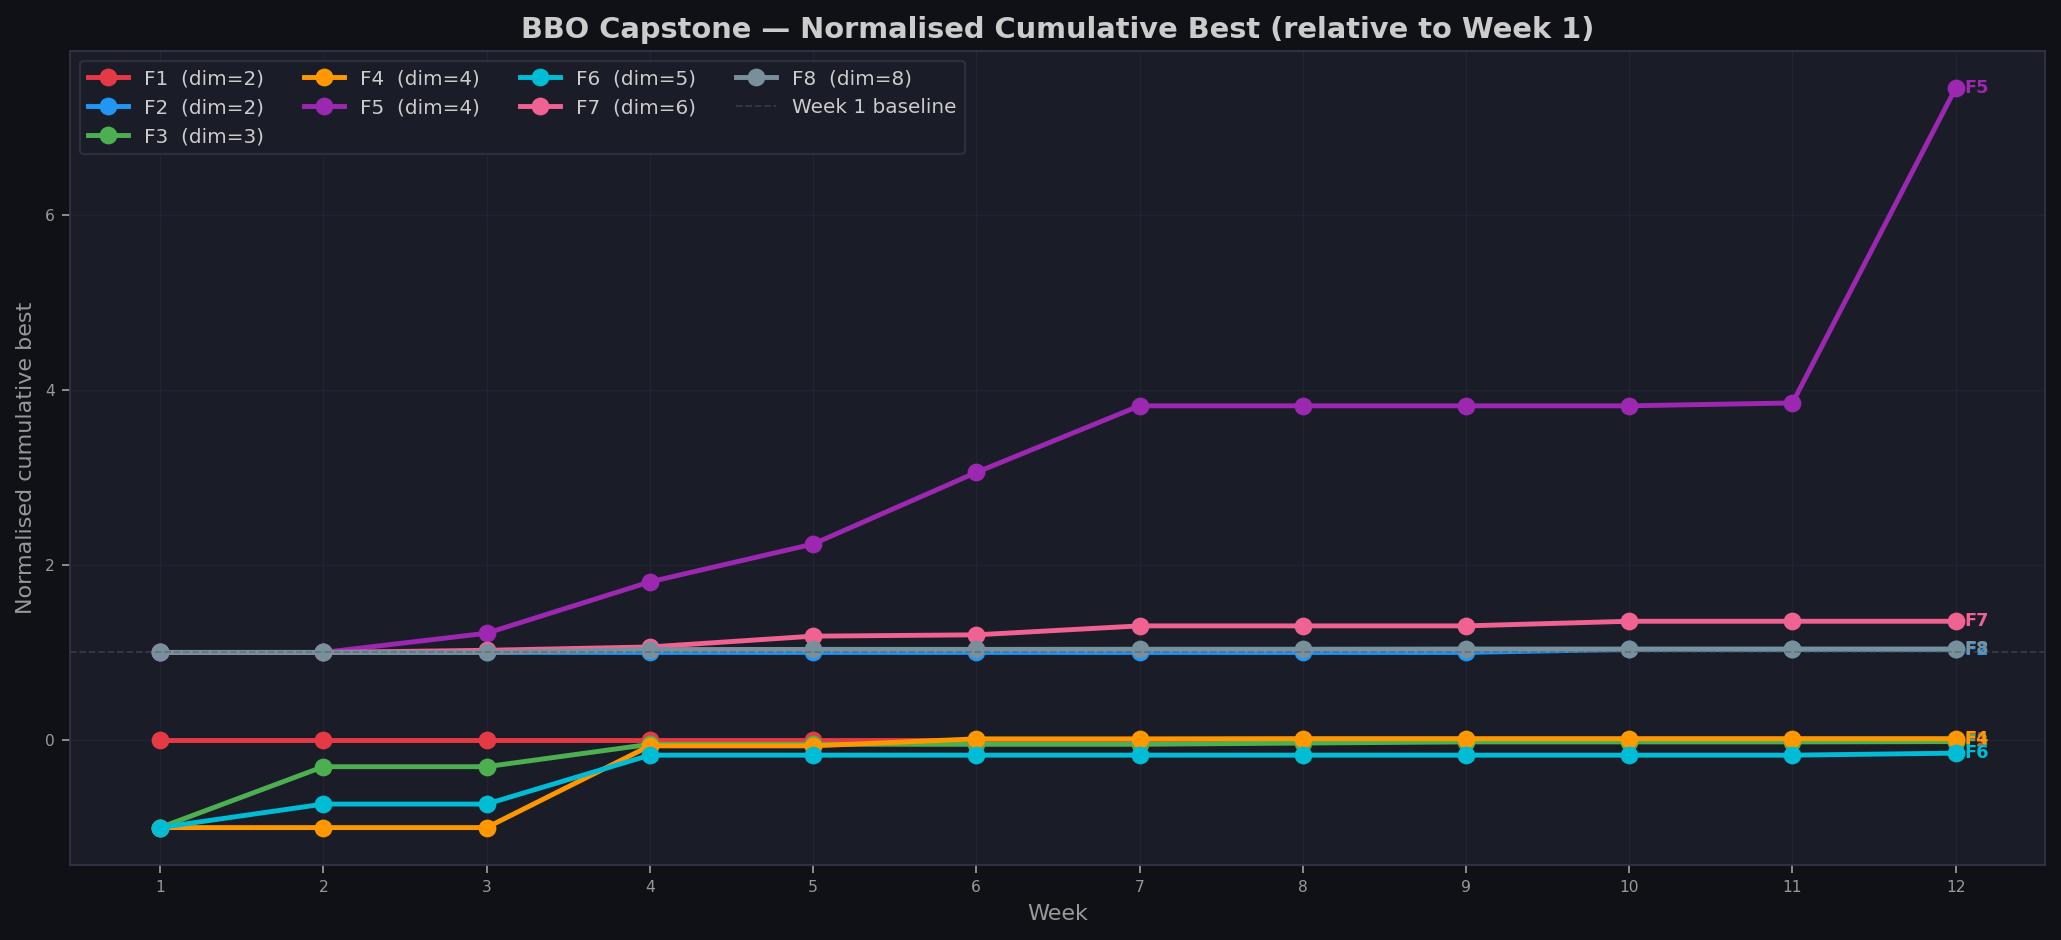
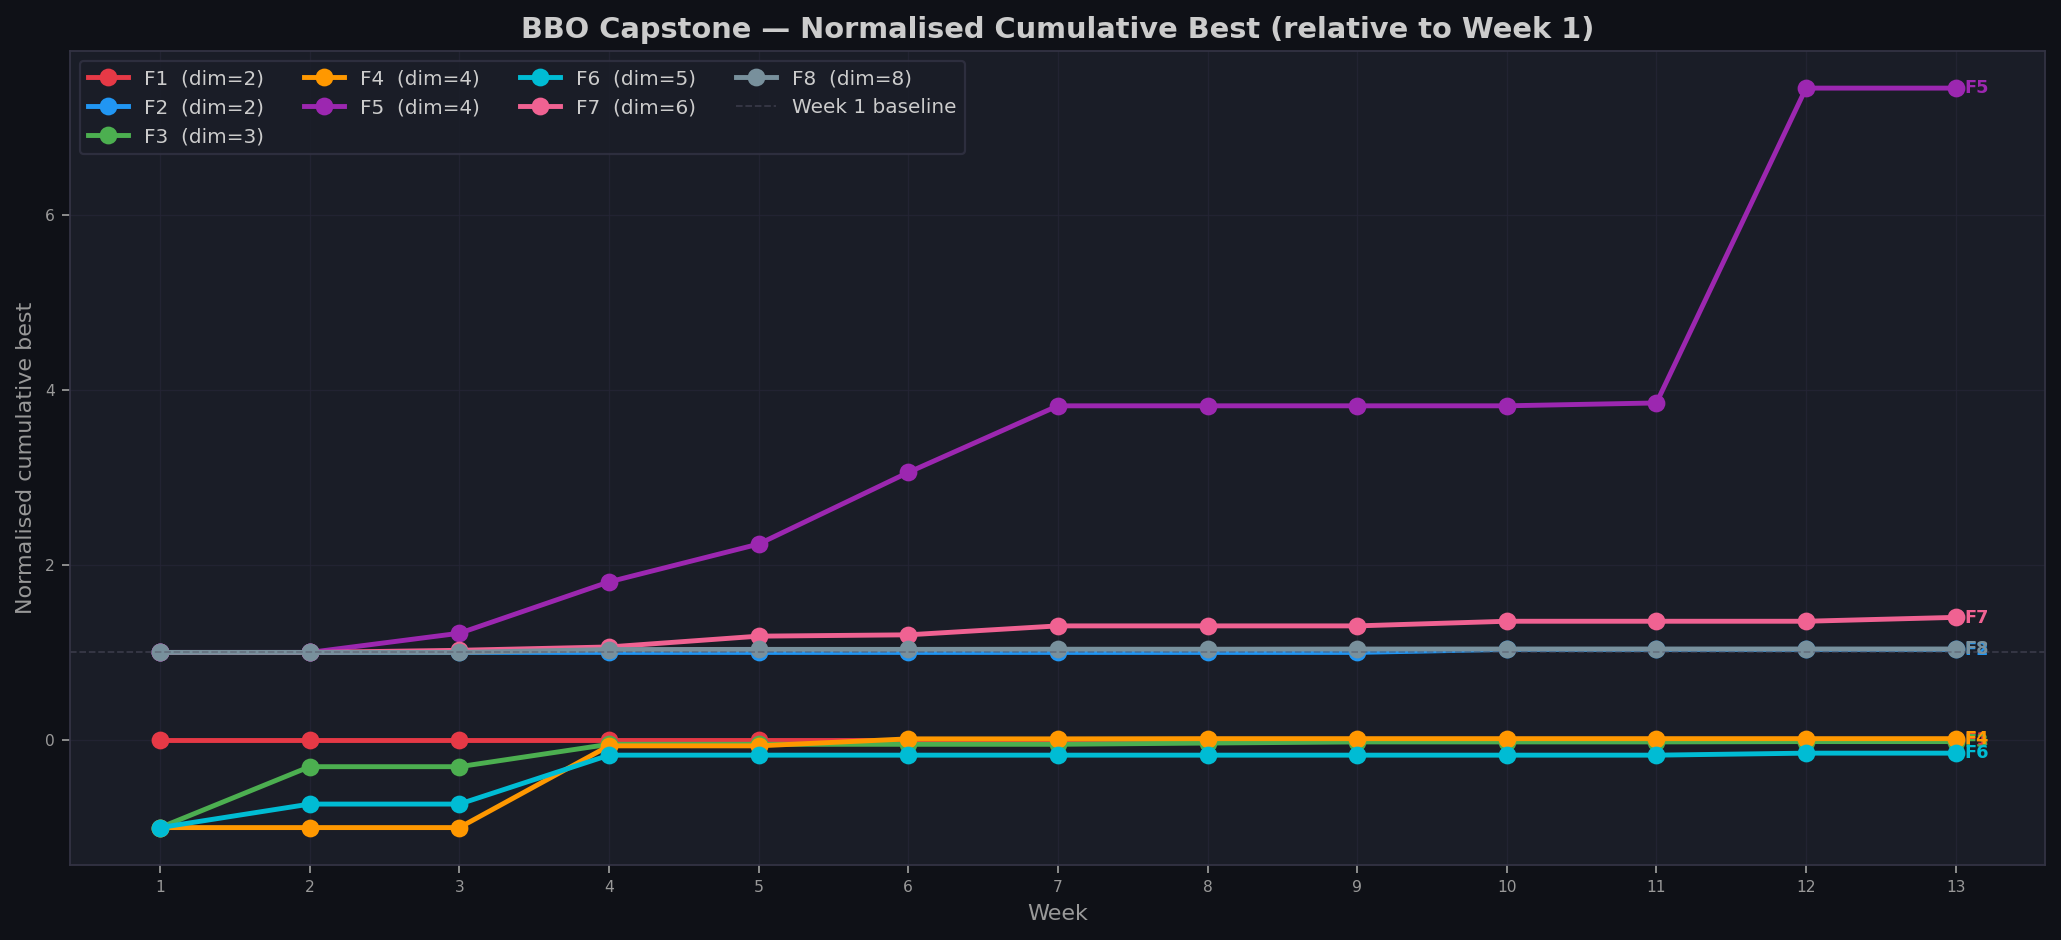
week 13 results

diff --git a/capstone/reports/week_13.md b/capstone/reports/week_13.md
@@ -1,0 +1,135 @@
+# Week 13 — Campaign Conclusion and Final Records
+
+## Overview
+
+Week 13 marked the final round of the 13-week Black-Box Optimisation campaign.
+
+With no further queries remaining after this round, every configuration
+decision was committed to maximum exploitation around confirmed best regions,
+with one deliberate exception: Function 1 received a final exploratory attempt
+at a completely unexplored region of the search space.
+
+Key adjustments included:
+- Reduced `filterTopK` limits for F2 and F6 to 10 observations each for tighter
+  local GP calibration
+- Added `filterTopK(10)` for F7 to exclude early exploratory queries that were
+  misleading the surrogate model
+- F4 switched from UCB to EI with single-centre constraint around the Week 8 peak
+- F1 `buildCandidatesF1` extended with a third centre at the mirror point
+  (0.580, 0.536) — the reflection of the Week 6 signal across the unit square
+- F5 continued with the fixed boundary submission that produced the Week 12 record
+- All other functions used the tightest local standard deviations of the campaign
+
+---
+
+## Selected Queries and Results
+
+| Function | Selected Input | Output | Acquisition Used | Change vs Week 12 |
+|----------|----------------|--------|------------------|-------------------|
+| F1 | `[0.819958, 0.724876]` | `~0` | EI | No meaningful change |
+| F2 | `[0.706765, 0.934636]` | `0.4383` | EI | Decrease |
+| F3 | `[0.443494, 0.658545, 0.504177]` | `-0.0118` | EI | Slight decrease |
+| F4 | `[0.443316, 0.406619, 0.349807, 0.361772]` | `0.3402` | EI | Decrease |
+| F5 | `[0.999999, 0.999999, 0.999999, 0.999999]` | `8662.40` | Fixed | Stable — best maintained |
+| F6 | `[0.625630, 0.458317, 0.633340, 0.713119, 0.000000]` | `-0.4602` | UCB | Slight decrease |
+| F7 | `[0.152286, 0.148893, 0.378958, 0.300823, 0.304431, 0.682178]` | `3.1810` | EI | **New best** |
+| F8 | `[0.127473, 0.101396, 0.098512, 0.088212, 0.387150, 0.797850, 0.472005, 0.869865]` | `9.6601` | UCB | Stable |
+
+---
+
+## Summary
+
+Week 13 delivered one new record and confirmed the stability of the strongest
+regions identified in previous weeks.
+
+**Function 7** set a new best at **3.1810**, its highest value across the
+entire 13-week campaign. The addition of `filterTopK(10)` restricted the GP
+fit to the most recent high-value observations and eliminated the influence
+of early exploratory queries that had been pulling the surrogate toward
+lower-value predictions. The resulting suggestion landed in the confirmed
+high-value region and produced a cleaner refinement than any previous week.
+
+**Function 5** returned **8662.40**, maintaining the record set in Week 12.
+The fixed boundary submission at (0.999999, 0.999999, 0.999999, 0.999999)
+locked in the strongest single-function result of the campaign and confirmed
+that the true optimum lies at or very near the corner of the search space.
+
+**Function 2** returned **0.4383**, below its best of 0.663. The surrogate
+landed within the established high-value region but did not hit the precise
+peak. With the final query spent, the Week 10 record remains the campaign best.
+
+**Function 3** returned **-0.0118**, slightly below its Week 12 best of -0.0088.
+The EI suggestion remained in the correct region but did not produce further
+improvement. The Week 12 record stands as the final best.
+
+**Function 4** returned **0.3402**, below its Week 8 best of 0.482. The switch
+to EI with a single-centre constraint produced a query closer to the Week 8
+peak than recent UCB attempts, but did not reproduce the exact value. The
+surrogate model never achieved reliable calibration for this landscape
+across all 13 weeks.
+
+**Function 6** returned **-0.4602**, slightly below its Week 12 best of -0.413.
+The tighter UCB configuration sampled a nearby region but did not improve
+on the previous round. The Week 12 record stands as the final best.
+
+**Function 8** returned **9.6601**, effectively stable relative to the Week 9
+best of 9.675. The 8-dimensional landscape limited how precisely the GP could
+refine around the peak, but the UCB strategy consistently targeted the
+correct region across the final four weeks.
+
+**Function 1** produced **~0** for the thirteenth consecutive week. The
+dual-centre sampling with a speculative mirror point at (0.580, 0.536) did
+not reveal any new signal. Across 13 rounds, this function produced no
+identifiable high-value region.
+
+---
+
+## Final Campaign Summary
+
+| Function | Dim | Week 1 Best | Final Best | Overall Change |
+|----------|-----|-------------|------------|----------------|
+| F1 | 2 | ~0 | ~0 | No improvement |
+| F2 | 2 | 0.641 | 0.663 | +3.4% |
+| F3 | 3 | -0.483 | -0.0088 | Major improvement |
+| F4 | 4 | -31.18 | +0.482 | Major improvement |
+| F5 | 4 | 1163.7 | 8662.4 | +644% |
+| F6 | 5 | -2.75 | -0.413 | Major improvement |
+| F7 | 6 | 2.27 | 3.181 | +40.1% |
+| F8 | 8 | 9.31 | 9.675 | +3.9% |
+
+Seven out of eight functions showed meaningful improvement over the campaign.
+The strongest result was Function 5, where the boundary exploitation strategy
+delivered a 644% improvement over the Week 1 baseline. Functions 3, 4 and 6
+recovered from strongly negative initial values to produce substantially
+better outcomes. Functions 2 and 8 achieved incremental improvements that
+confirmed the robustness of the exploitation strategy for smooth, well-modelled
+landscapes. Function 7 delivered steady gains throughout the campaign and
+produced a new record in the final round.
+
+Function 1 remained the single unresolved case — 13 rounds of varied
+acquisition strategies (variance, spread, EI) and diverse query points
+across the 2D space produced no identifiable high-value region, suggesting
+either a flat landscape within the accessible domain or a peak so narrow
+that it was never sampled.
+
+---
+
+## Reflection on the Campaign
+
+The optimisation strategy evolved from uniform exploration in Week 1 to
+adaptive, function-specific exploitation by the final weeks. The most
+important lesson was that no single acquisition rule works across all
+functions — each landscape required its own configuration, and those
+configurations had to be informed by accumulated observations rather than
+applied uniformly.
+
+The most significant strategic decisions in retrospect were:
+- Introducing y-normalisation in Week 5 to stabilise GP inference
+- Switching F5 to boundary-pinned candidates after recognising the ridge structure
+- Introducing `filterTopK` in Week 12 to reduce the influence of outdated observations
+- Accepting that F1 and F4 were not reliably modellable with the available query budget
+
+The Week 12 fixed submission for F5 and the Week 13 `filterTopK` expansion
+for F7 were the two late-campaign changes that delivered the largest final
+improvements, demonstrating that strategic adjustments remained valuable
+even in the final rounds.

diff --git a/README.md b/README.md
@@ -26,6 +26,7 @@ Weekly progress is documented in:
 - [Week 10](capstone/reports/week_10.md)
 - [Week 11](capstone/reports/week_11.md)
 - [Week 12](capstone/reports/week_12.md)
+- [Week 13](capstone/reports/week_13.md)
 
 ---
 
@@ -236,20 +237,36 @@ Final submission — last iteration, full exploitation lock-in.
 - Preserved F8 near-peak region with low-exploration UCB configuration
 - Locked F5 to boundary optimum (all dimensions = 0.999999), based on consistent ridge behaviour across multiple weeks
 
+### Final
+Campaign conclusion — final round with targeted refinements.
+
+- Reduced filterTopK limits for F2 and F6 to 10 observations for tighter local GP calibration
+- Added filterTopK(10) for F7 — excluded early exploratory queries that were misleading the surrogate
+- F4 switched from UCB to EI with single-centre constraint around the Week 8 peak
+- buildCandidatesF1 extended with a mirror centre at (0.580, 0.536) as a speculative final attempt
+- F5 continued fixed boundary submission, locking in the Week 12 record
+- F7 achieved a new campaign best of 3.181, confirming the value of late-stage filterTopK adjustments
+
 The final iteration prioritised reliability over exploration, ensuring all queries remained within validated high-performing regions while allowing minimal controlled recovery where justified.
 
-**Final results:**
+**Final campaign results:**
 
-| Function | Week 1 Best | Final Best | Change |
-|----------|-------------|------------|--------|
-| F1 | ~0 | ~0 | — |
-| F2 | 0.641 | 0.663 | +3.4% |
-| F3 | -0.483 | -0.009 | Major improvement |
-| F4 | -31.18 | +0.482 | Major improvement |
-| F5 | 1163.7 | 8662.4 | +644% |
-| F6 | -2.75 | -0.413 | Major improvement |
-| F7 | 2.27 | 3.080 | +35.7% |
-| F8 | 9.31 | 9.675 | +3.9% |
+| Function | Dim | Week 1 Best | Final Best | Change |
+|----------|-----|-------------|------------|--------|
+| F1 | 2 | ~0 | ~0 | No improvement |
+| F2 | 2 | 0.641 | 0.663 | +3.4% |
+| F3 | 3 | -0.483 | -0.009 | Major improvement |
+| F4 | 4 | -31.18 | +0.482 | Major improvement |
+| F5 | 4 | 1163.7 | 8662.4 | +644% |
+| F6 | 5 | -2.75 | -0.413 | Major improvement |
+| F7 | 6 | 2.27 | 3.181 | +40.1% |
+| F8 | 8 | 9.31 | 9.675 | +3.9% |
+
+Seven out of eight functions showed meaningful improvement over the 13-week
+campaign. The strongest result was Function 5 with a 644% gain from the Week 1
+baseline, confirming the value of the boundary exploitation strategy. Function 1
+remained the single unresolved case — 13 rounds of varied acquisition strategies
+produced no identifiable high-value region.
 
 ---
 
@@ -280,17 +297,24 @@ Potential next steps include:
 
 ## Reflection
 
-This project demonstrates structured decision-making under uncertainty rather than brute-force search.
+This project demonstrates structured decision-making under uncertainty rather
+than brute-force search. The code remained intentionally simple; the strategy
+evolved through evidence-driven iteration.
 
-The code remains intentionally simple.
-The strategy evolves through evidence-driven iteration.
+The optimisation process transitioned from generic Bayesian optimisation to
+adaptive, function-aware, uncertainty-calibrated search. Performance gains in
+F5 (+644%) and F7 (+40%) validate the exploit-refine strategy, while the
+persistent difficulty of F1 and F4 illustrates the limits of surrogate-based
+optimisation under extreme query constraints.
 
-The optimisation process transitioned from generic Bayesian optimisation
-to adaptive, function-aware, uncertainty-calibrated search.
+The campaign showed that no single acquisition rule works across all functions.
+Each landscape required its own configuration, informed by accumulated
+observations rather than applied uniformly. Late-campaign strategic adjustments
+— including the Week 12 fixed submission for F5 and the Week 13 filterTopK
+expansion for F7 — delivered meaningful improvements even in the final rounds,
+demonstrating that careful analysis remains valuable throughout the campaign.
 
-Performance gains in F5 (+644%) and F7 validate the exploit-refine strategy.
-Instabilities in F2 and F4 illustrate the difficulty of modelling irregular landscapes with limited data.
-
-The full project implementation, weekly reports, and all data are available on GitHub:
+The full project implementation, weekly reports, datasheet, model card, and all
+submission data are available on GitHub:
 
 https://github.com/absoyak/imperial-ml-ai-capstone
